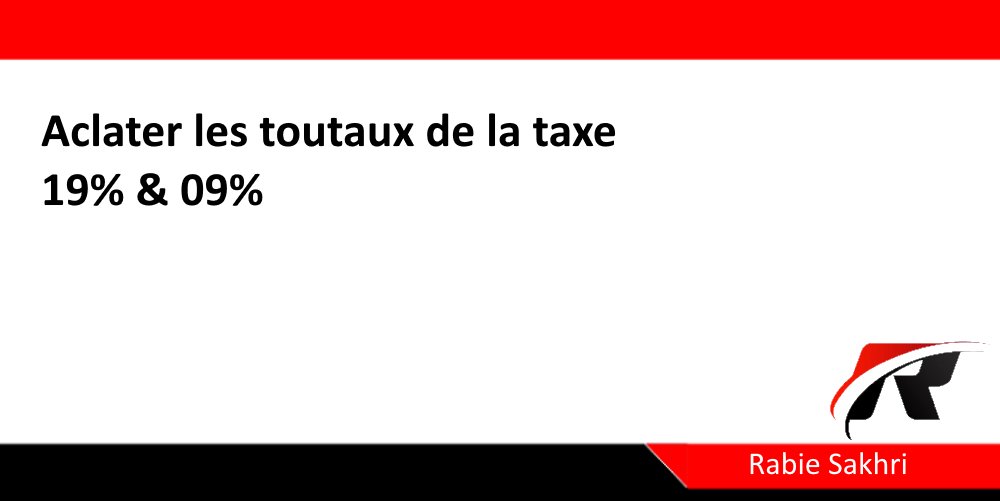
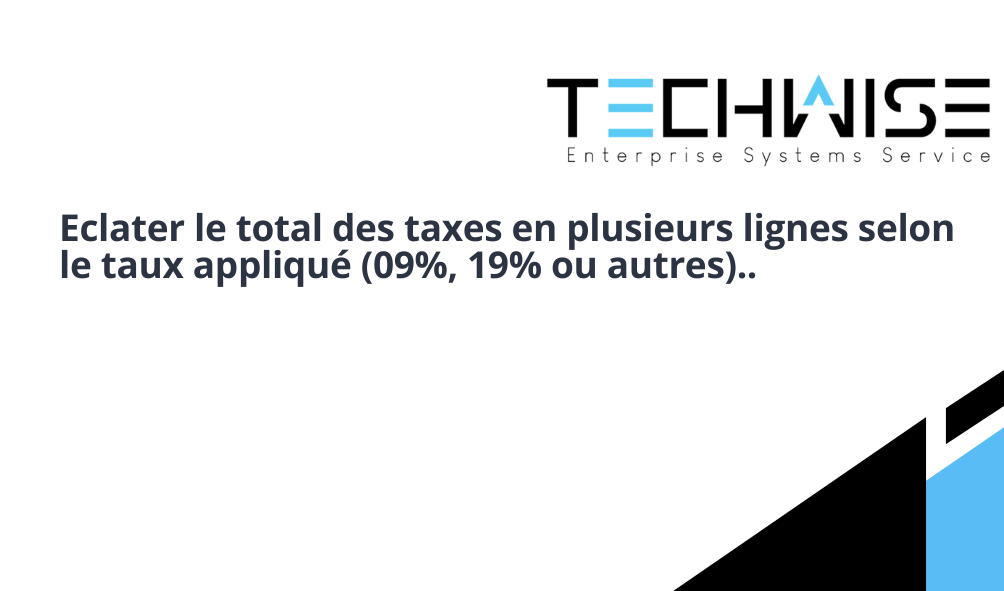
Final

diff --git a/r_print_taxes_separated/static/description/index.html b/r_print_taxes_separated/static/description/index.html
@@ -23,7 +23,10 @@
         <h2 class="oe_slogan" style="margin-top:20px; margin-bottom: 0px;" >Besoin de support ?</h2>
         <div class="oe_slogan" style="margin-top:10px !important;">
             <div style="margin-bottom: 4px;">
-                Contact moi <a href="mailto:sakhrirabie@gmail.com">sakhrirabie@gmail.com</a> pour le support, query and further customizations.
+                Contact nous <a href="mailto:r.sakhri@techwise-dz.com">r.sakhri@techwise-dz.com</a> pour le support, query and further customizations.
+            </div>
+            <div style="margin-bottom: 4px;">
+                Contact nous <a href="mailto:m.mohammedi@techwise-dz.com">m.mohammedi@techwise-dz.com</a> pour le support, query and further customizations.
             </div>
             <div class="text-center">
                 <img style="display:inline-block;" class="oe_picture oe_screenshot" src="./RS.png">

diff --git a/r_print_taxes_separated/__manifest__.py b/r_print_taxes_separated/__manifest__.py
@@ -2,24 +2,22 @@
 
 {
     'name': 'Eclater la taxe en plusieurs lignes dans les Devis et les Factures',
-    'version': '15.0e',
-    'author': 'L team & revu par Rabie Sakhri',
-    'category': 'Sales',
-    'website': '',
-    'license': 'AGPL-3',
-    'price': 0.0,
-    'currency': 'USD',
-    'sequence': 1,
-    'website': '',
-    'summary': '',
+    'version': '1.0.0.1',
+    'summary': 'séparer les différentes taxes sur la facture',
     'description': """
 Dans le cas où l'entreprise utilise plus d'une taxe TVA, ce module affiche les deux taxes dans
 le devis et la facture
     """,
+    'category': 'Sales',
+    'author': 'Tech Wise Advisors',
+    'website': 'https://techwise-dz.com',
+    'license': 'OPL-1',
+    'price': 10.0,
+    'currency': 'USD',
+    'sequence': 1,
     'images': ['static/description/odoo_r_banner.png', ],
     'depends': ['base', 'sale', 'account'],
     'web.assets_backend': [
-    
     ],
     'data': [
         'reports/report_menu.xml',

diff --git a/r_dz_region/__manifest__.py b/r_dz_region/__manifest__.py
@@ -11,15 +11,13 @@
     'license': 'AGPL-3',
     'price': 5.0,
     'currency': 'USD',
-
+    'images': ['static/description/odoo_r_banner.png'],
     'depends': ['base', 'contacts'],
     'data': ['security/ir.model.access.csv', 'data/wilayas_data.xml', 'data/commune_data.xml',
              'views/res_commune.xml'
              ],
     'demo': [
-    ],
-    'images': ['static/description/odoo_r_banner.png'],
-
+    ],    
     'installable': True,
     'application': True,
     'auto_install': False,
